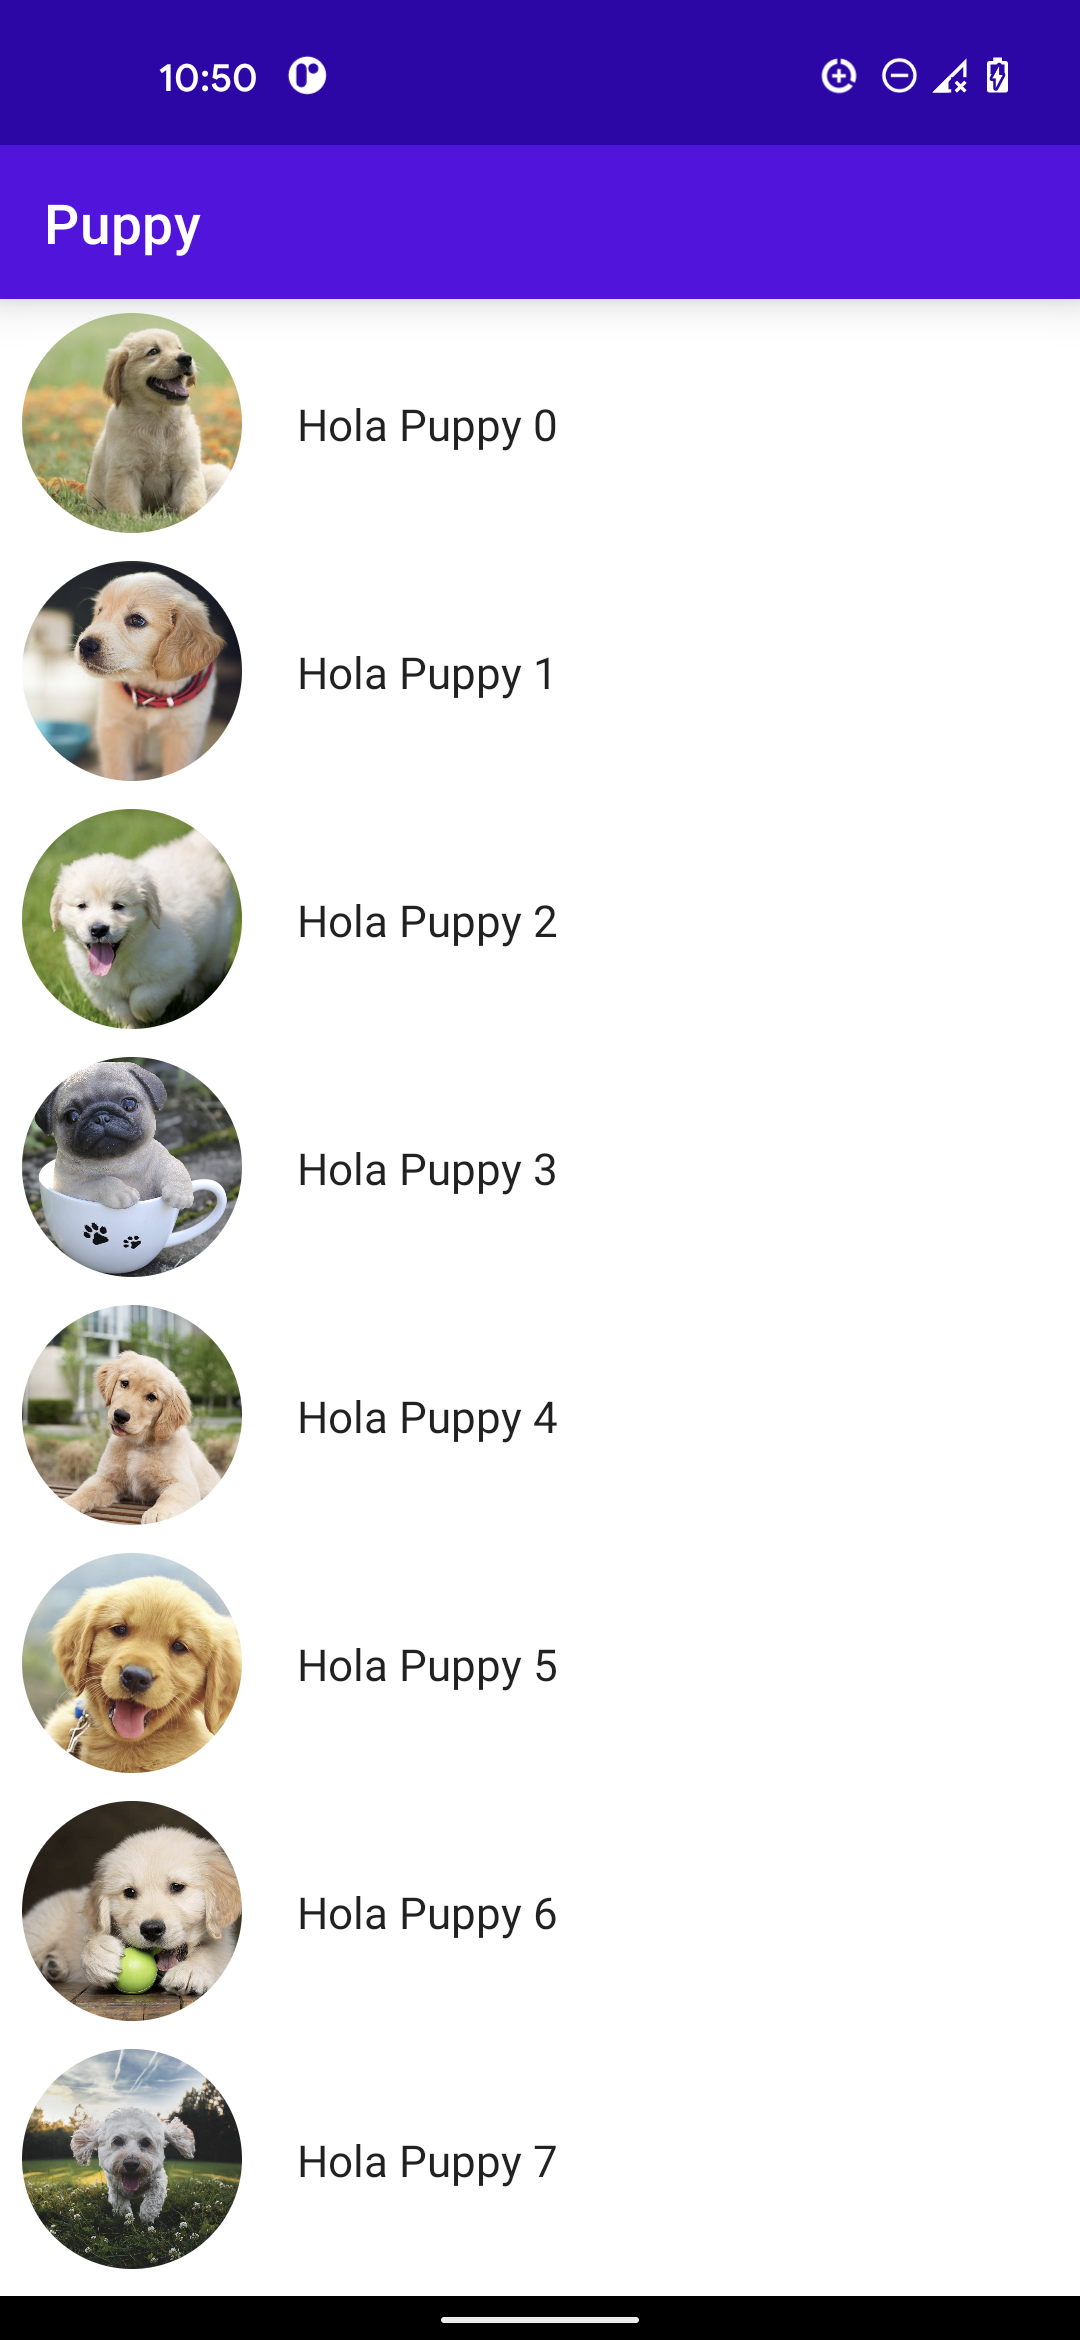
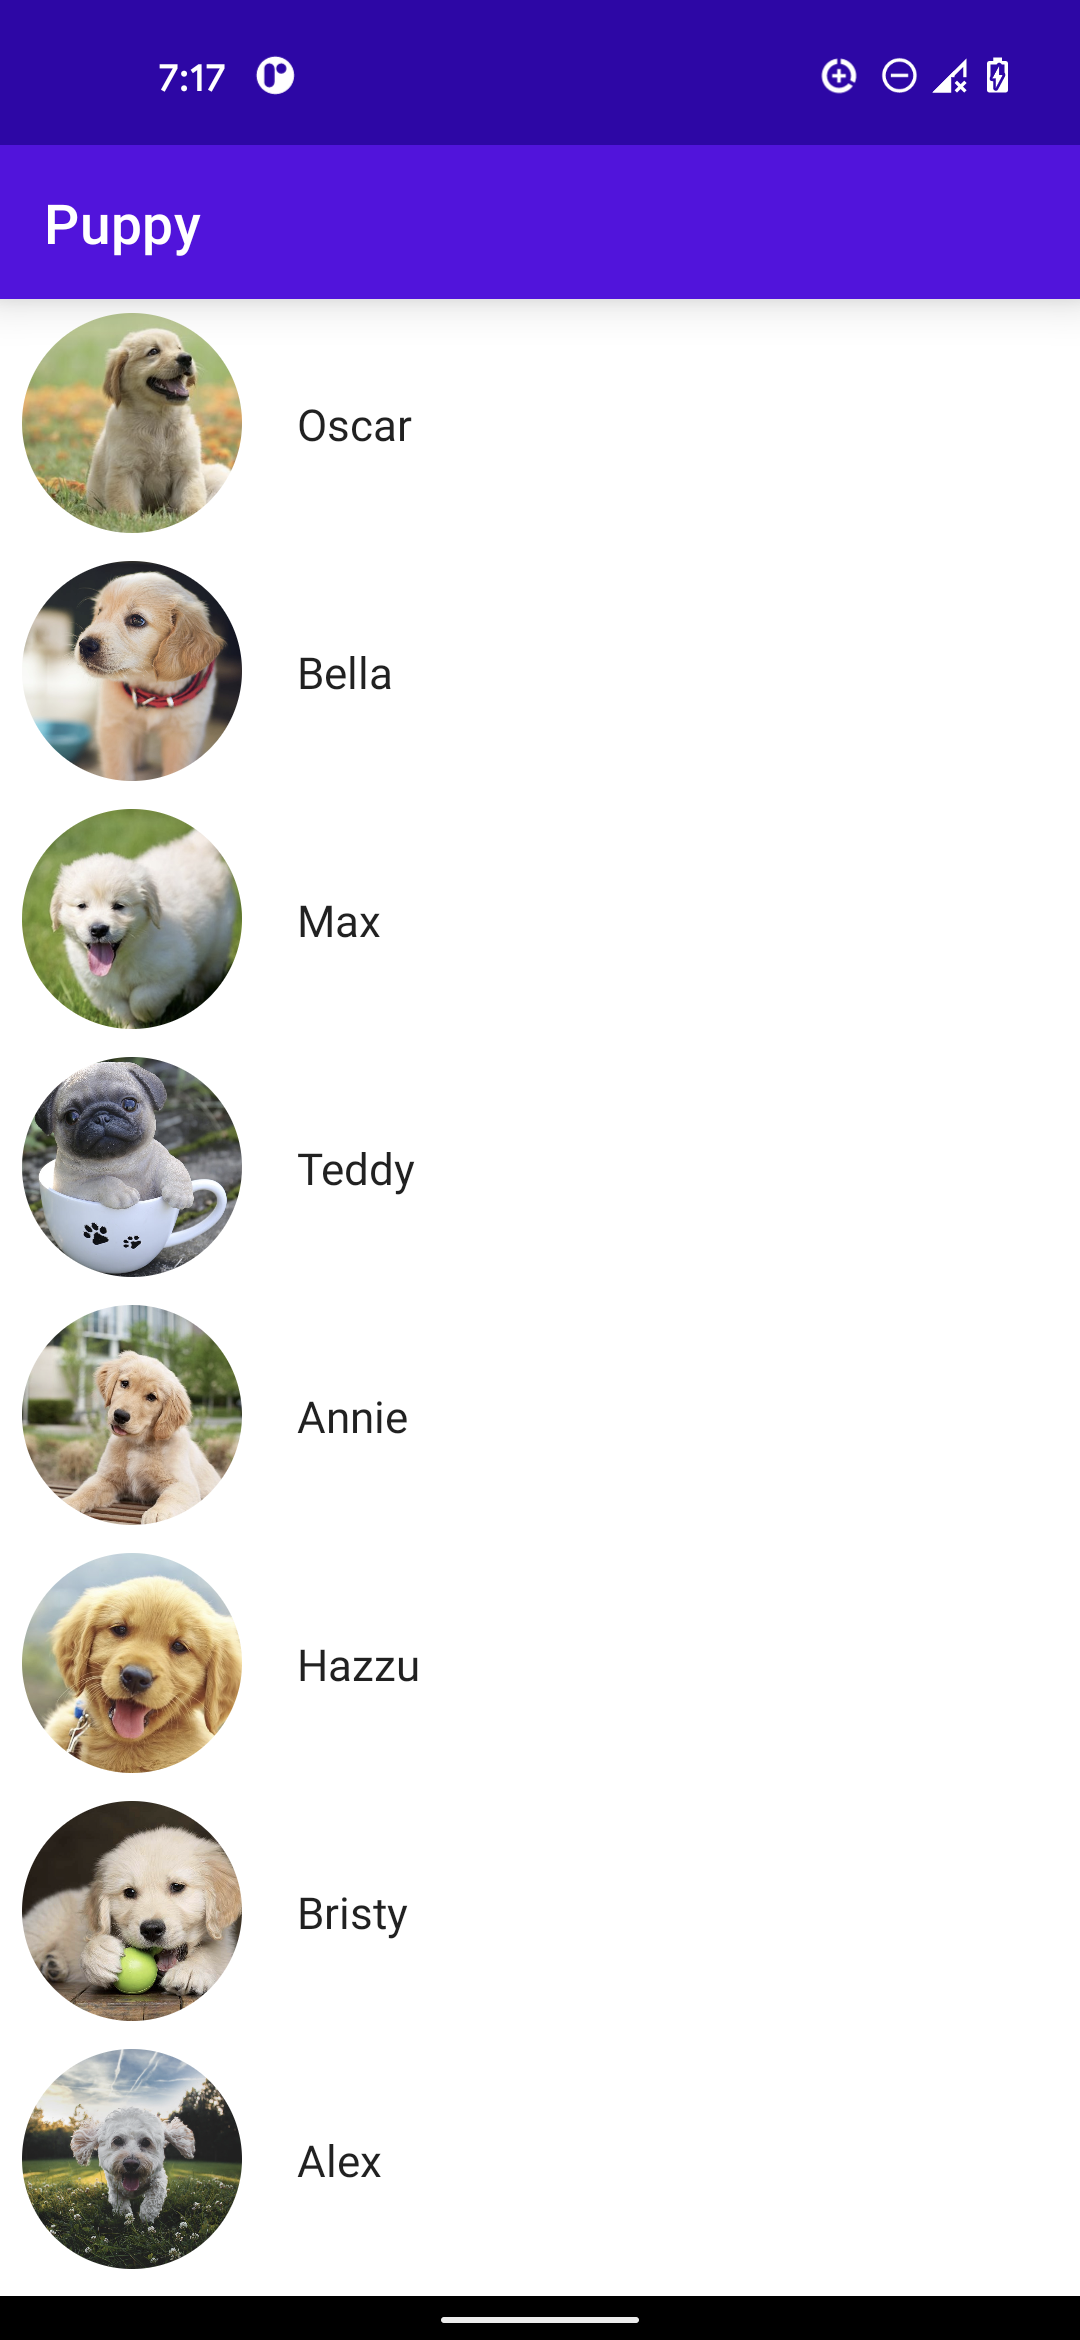
Added copy rights

diff --git a/app/src/main/java/com/example/androiddevchallenge/MainScreen.kt b/app/src/main/java/com/example/androiddevchallenge/MainScreen.kt
@@ -1,3 +1,18 @@
+/*
+ * Copyright 2021 The Android Open Source Project
+ *
+ * Licensed under the Apache License, Version 2.0 (the "License");
+ * you may not use this file except in compliance with the License.
+ * You may obtain a copy of the License at
+ *
+ *     https://www.apache.org/licenses/LICENSE-2.0
+ *
+ * Unless required by applicable law or agreed to in writing, software
+ * distributed under the License is distributed on an "AS IS" BASIS,
+ * WITHOUT WARRANTIES OR CONDITIONS OF ANY KIND, either express or implied.
+ * See the License for the specific language governing permissions and
+ * limitations under the License.
+ */
 package com.example.androiddevchallenge
 
 import android.content.res.TypedArray
@@ -26,11 +41,13 @@ object MainScreen {
     @Composable
     fun MainScreen(
         viewModel: PuppyViewModel,
+        nameList: Array<String>,
         imageList: TypedArray,
         onItemClicked: (PuppyModel) -> Unit
     ) {
         Surface(color = MaterialTheme.colors.background) {
-            PuppyScreen("Puppy", viewModel, imageList, onItemClicked)
+            PuppyScreen("Puppy", viewModel, nameList,
+                imageList, onItemClicked)
         }
     }
 
@@ -38,6 +55,7 @@ object MainScreen {
     fun PuppyScreen(
         title: String,
         viewModel: PuppyViewModel,
+        nameList: Array<String>,
         imageList: TypedArray,
         onItemClicked: (PuppyModel) -> Unit
     ) {
@@ -45,18 +63,19 @@ object MainScreen {
             topBar = {
                 Toolbar(title)
             }, content = {
-                Content(viewModel, imageList, onItemClicked)
+                Content(viewModel, nameList, imageList, onItemClicked)
             })
     }
 
     @Composable
     fun Content(
         viewModel: PuppyViewModel,
+        nameList: Array<String>,
         imageList: TypedArray,
         onItemClicked: (PuppyModel) -> Unit,
         modifier: Modifier = Modifier
     ) {
-        viewModel.getPuppyList(imageList)
+        viewModel.getPuppyList(imageList, nameList)
         viewModel.puppyList.observeAsState().value?.let {
             LazyColumn(modifier = modifier) {
                 items(items = it) {

diff --git a/app/src/main/java/com/example/androiddevchallenge/viewmodel/PuppyViewModel.kt b/app/src/main/java/com/example/androiddevchallenge/viewmodel/PuppyViewModel.kt
@@ -1,3 +1,18 @@
+/*
+ * Copyright 2021 The Android Open Source Project
+ *
+ * Licensed under the Apache License, Version 2.0 (the "License");
+ * you may not use this file except in compliance with the License.
+ * You may obtain a copy of the License at
+ *
+ *     https://www.apache.org/licenses/LICENSE-2.0
+ *
+ * Unless required by applicable law or agreed to in writing, software
+ * distributed under the License is distributed on an "AS IS" BASIS,
+ * WITHOUT WARRANTIES OR CONDITIONS OF ANY KIND, either express or implied.
+ * See the License for the specific language governing permissions and
+ * limitations under the License.
+ */
 package com.example.androiddevchallenge.viewmodel
 
 import android.content.res.TypedArray
@@ -10,15 +25,15 @@ class PuppyViewModel : ViewModel() {
 
     var puppyList = MutableLiveData(listOf<PuppyModel>())
 
-    fun getPuppyList(imageList: TypedArray) {
+    fun getPuppyList(imageList: TypedArray, nameList: Array<String>) {
         var count = 0
         puppyList.value = List(50) {
-            if(count > 9) { // reset count as we have only 9 images
+            if(count >= 9) { // reset count as we have only 9 images
                 count = 0
             }
             count++
             PuppyModel(
-                "Hola Puppy $it",
+                nameList[count],
                 imageList.getResourceId(count, R.drawable.puppy_image_01)
             )
         }

diff --git a/app/src/main/java/com/example/androiddevchallenge/DetailScreen.kt b/app/src/main/java/com/example/androiddevchallenge/DetailScreen.kt
@@ -1,3 +1,18 @@
+/*
+ * Copyright 2021 The Android Open Source Project
+ *
+ * Licensed under the Apache License, Version 2.0 (the "License");
+ * you may not use this file except in compliance with the License.
+ * You may obtain a copy of the License at
+ *
+ *     https://www.apache.org/licenses/LICENSE-2.0
+ *
+ * Unless required by applicable law or agreed to in writing, software
+ * distributed under the License is distributed on an "AS IS" BASIS,
+ * WITHOUT WARRANTIES OR CONDITIONS OF ANY KIND, either express or implied.
+ * See the License for the specific language governing permissions and
+ * limitations under the License.
+ */
 package com.example.androiddevchallenge
 
 import androidx.compose.foundation.Image

diff --git a/app/src/main/java/com/example/androiddevchallenge/model/PuppyModel.kt b/app/src/main/java/com/example/androiddevchallenge/model/PuppyModel.kt
@@ -1,3 +1,18 @@
+/*
+ * Copyright 2021 The Android Open Source Project
+ *
+ * Licensed under the Apache License, Version 2.0 (the "License");
+ * you may not use this file except in compliance with the License.
+ * You may obtain a copy of the License at
+ *
+ *     https://www.apache.org/licenses/LICENSE-2.0
+ *
+ * Unless required by applicable law or agreed to in writing, software
+ * distributed under the License is distributed on an "AS IS" BASIS,
+ * WITHOUT WARRANTIES OR CONDITIONS OF ANY KIND, either express or implied.
+ * See the License for the specific language governing permissions and
+ * limitations under the License.
+ */
 package com.example.androiddevchallenge.model
 
 import android.os.Parcelable

diff --git a/app/src/main/java/com/example/androiddevchallenge/MainActivity.kt b/app/src/main/java/com/example/androiddevchallenge/MainActivity.kt
@@ -37,6 +37,7 @@ class MainActivity : AppCompatActivity() {
             MyTheme {
                 MainScreen(
                     puppyViewModel,
+                    resources.getStringArray(R.array.puppy_names),
                     resources.obtainTypedArray(R.array.puppy_images)
                 ) {
                     startActivity(Intent(
